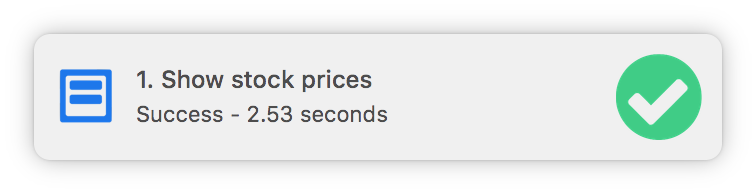
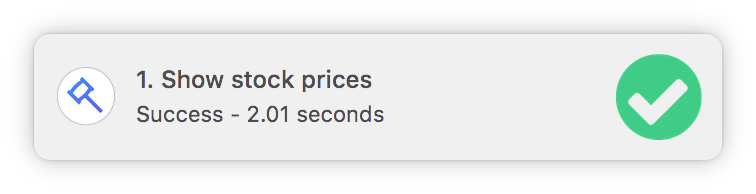
Update website screenshots and text

Changed region(s): [[0.0608, 0.3402, 0.1521, 0.6495], [0.3347, 0.5258, 0.5172, 0.6495]]

diff --git a/index.html b/index.html
@@ -1,7 +1,7 @@
 <!DOCTYPE html>
 <html>
   <head>
-    <title>Bidbar - Run scripts from the menu bar</title>
+    <title>Bidbar - Save and run Terminal commands from the menu bar</title>
     <!-- Global site tag (gtag.js) - Google Analytics -->
     <script async src="https://www.googletagmanager.com/gtag/js?id=UA-138416962-1"></script>
     <script>
@@ -22,10 +22,10 @@
     <div class="top"></div>
     <!-- Header -->
     <div class="navbar navbar-expand-md">
-      <a class="navbar-brand" href="/"><img src="./assets/logo.png" alt="Logo" width="25px" class="logo"> Bidbar</a>
+      <a class="navbar-brand gradient" href="/"><img src="./assets/logo.png" alt="Logo" width="25px" class="logo"> Bidbar</a>
       <ul class="navbar-nav ml-auto">
         <li class="nav-item">
-          <a class="nav-link" href="/contact">Contact</a>
+          <a class="nav-link gradient" href="/contact">Contact</a>
         </li>
       </ul>
     </div>
@@ -35,7 +35,7 @@
         <div class="col">
           <div class="description">
             <h1>Bidbar</h1>
-            <p class="main-text">A menu bar app that allows you to run custom scripts with just a few clicks.</p>
+            <p class="main-text">Save Terminal commands in the Mac menu bar and run them with keyboard shortcuts.</p>
           </div>
           <!-- Begin Mailchimp Signup Form -->
           <div id="mc_embed_signup">
@@ -74,11 +74,11 @@
       <!-- Detailed description -->
       <div class="text-center section">
         <div class="description text-center">
-          <h3>Save all your important scripts in the menu bar</h3>
-          <p>Instead of having to continuously retype your Terminal commands, easily 
-            execute them with two clicks.</p>
+          <h3>Save all your important commands in the menu bar</h3>
+          <p>Instead of having to constantly memorize and type out Terminal commands, 
+            run them with a simple click of a button.</p>
         </div>
-        <img src="./assets/bidbar_desktop.png" alt="Image of Bidbar" width="80%">
+        <img src="./assets/bidbar_desktop.png" alt="Image of Bidbar" width="80%" class="mac-shadow">
       </div>
 
       <div class="row">
@@ -87,8 +87,8 @@
           <img src="./assets/bidbar_output.png" alt="Notification" width="400px">
         </div>
         <div class="col description">
-          <h3>View the output of your scripts</h3>
-          <p>Be notified when your scripts are finished running and view the
+          <h3>View the output of your commands</h3>
+          <p>When your command finishes running, click the notification to view the
             output in a clean, minimal window.</p>
         </div>
       </div>
@@ -96,10 +96,10 @@
       <!-- Keyboard shortcuts -->
       <div class="text-center section">
         <div class="description text-center">
-          <h3>Run your scripts with keyboard shortcuts</h3>
-          <p>Use keyboard shortcut <code>Shift+CMD+ALT+1</code> to run script #1, and so on.</p>
+          <h3>Run your commands with keyboard shortcuts</h3>
+          <p>Use keyboard shortcuts <code>Shift+CMD+ALT+#</code> to quickly run commands without using a mouse.</p>
         </div>
-        <img src="./assets/bidbar_keyboard.svg" alt="Image of Bidbar" width="50%">
+        <img src="./assets/bidbar_keyboard.svg" alt="Image of Bidbar" width="50%" class="mac-shadow-small">
       </div>
 
       <!-- Pricing -->
@@ -119,5 +119,6 @@
 
     </div>
     <a id="feedback" href="https://alanbi.typeform.com/to/nl719i">Submit Feedback</a>
+    <a id="twitter" href="https://twitter.com/getbidbar"><img src="./assets/twitter.png" alt="Twitter" width="32px"></a>
   </body>
 </html>

diff --git a/contact.html b/contact.html
@@ -35,28 +35,26 @@
   <body>
     <!-- Header -->
     <div class="navbar navbar-expand-md">
-      <a class="navbar-brand" href="/"><img src="./assets/logo_blue.png" alt="Logo" width="25px" class="logo"> Bidbar</a>
+      <a class="navbar-brand gradient" href="/"><img src="./assets/logo.png" alt="Logo" width="25px" class="logo"> Bidbar</a>
       <ul class="navbar-nav ml-auto">
         <li class="nav-item">
-          <a class="nav-link" href="/contact">Contact</a>
+          <a class="nav-link gradient" href="/contact">Contact</a>
         </li>
       </ul>
     </div>
-    <div id="container" class="container">
+    <div id="container" class="container contact-container">
       <div class="contact mb-5">
         <h1 class="text-center mb-5">Contact</h1>
-        <p>Hello! My name is Alan, and I'm an avid computer science student. If you 
-          have any questions or suggestions, or if you just want to say hello, feel 
-          free to email me at <a href="mailto:alan.bi326@gmail.com">alan.bi326@gmail.com</a>,
-          contact me through <a href="https://twitter.com/alankbi">Twitter</a>, or visit
-          my website at <a href="http://www.alanbi.com">alanbi.com.</a></p>
+        <p>Hello! If you have any questions or suggestions about Bidbar, please feel free
+          to email <a href="mailto:alan.bi326@gmail.com">alan.bi326@gmail.com</a> or
+          submit feedback through the link in the bottom right corner. &#x2198 
         <p>If you'd like to stay up to date with the latest changes and releases of Bidbar, 
-          please subscribe to the mailing list below. To submit feedback, click the link in 
-          the bottom right corner. &#x2198</p>
+          follow Bidbar on <a href="https://twitter.com/getbidbar">Twitter</a> or subscribe to 
+          the mailing list below.</p>
       </div>
 
       <!-- Begin Mailchimp Signup Form -->
-      <div id="mc_embed_signup">
+      <div id="mc_embed_signup" class="contact-subscribe-form">
         <form action="https://alanbi.us20.list-manage.com/subscribe/post?u=561bf2b7e08898f9277f2f7ac&amp;id=2036e534ed" 
           method="post" id="mc-embedded-subscribe-form" name="mc-embedded-subscribe-form" class="validate" 
           target="_blank" novalidate>
@@ -85,5 +83,6 @@
       <!--End mc_embed_signup-->
     </div>
     <a id="feedback" href="https://alanbi.typeform.com/to/nl719i">Submit Feedback</a>
+    <a id="twitter-contact-page" href="https://twitter.com/getbidbar"><img src="./assets/twitter.png" alt="Twitter" width="32px"></a>
   </body>
 </html>

diff --git a/index.css b/index.css
@@ -10,7 +10,17 @@
 
 body {
   background-color: var(--background-color);
-  /* TODO: font */
+  position: relative;
+  height: 100%;
+}
+
+.contact-container {
+  width: 70vw;
+}
+
+.contact-subscribe-form {
+  text-align: center;
+  margin-bottom: 150px;
 }
 
 a {
@@ -26,6 +36,14 @@ a {
 }
 
 .navbar-brand {
+  font-size: x-large;
+}
+
+.nav-link {
+  font-size: large;
+}
+
+.gradient {
   background: -webkit-linear-gradient(var(--blue), var(--purple));
   -webkit-background-clip: text;
   background-clip: text;
@@ -43,7 +61,8 @@ a {
   left: 0;
   width: 100%;
   height: 900px;
-  background-color: var(--blue);
+  /* background-color: var(--blue); */
+  background: linear-gradient(45deg, var(--blue) 50%, var(--purple) 135%);
 }
 
 .first-row {
@@ -76,8 +95,12 @@ a {
   border: none;
   background: linear-gradient(65deg, var(--purple) -25%, #9485F9 100%);
   box-shadow: 0 8px 24px rgba(32,43,54,0.42);
-  width: 120px;
+  width: 300px;
   height: 45px;
+}
+
+.button:focus {
+  outline:0;
 }
 
 div[class="mce_inline_error"] {
@@ -96,6 +119,14 @@ div[class="mce_inline_error"] {
 
 .image-col {
   text-align: center;
+}
+
+.mac-shadow {
+  box-shadow: inset 0 1px 0 rgba(255,255,255,.6), 0 12px 30px 4px rgba(0,0,0,0.56);
+}
+
+.mac-shadow-small {
+  box-shadow: inset 0 1px 0 rgba(255,255,255,.6), 0 12px 30px 4px rgba(0,0,0,0.36);
 }
 
 .section {
@@ -144,4 +175,17 @@ th {
 
 #feedback:hover {
   text-decoration: none;
+}
+
+/* Twitter */
+#twitter {
+  position: absolute;
+  bottom: 10px;
+  left: 15px;
+}
+
+#twitter-contact-page {
+  position: fixed;
+  bottom: 10px;
+  left: 15px;
 }
